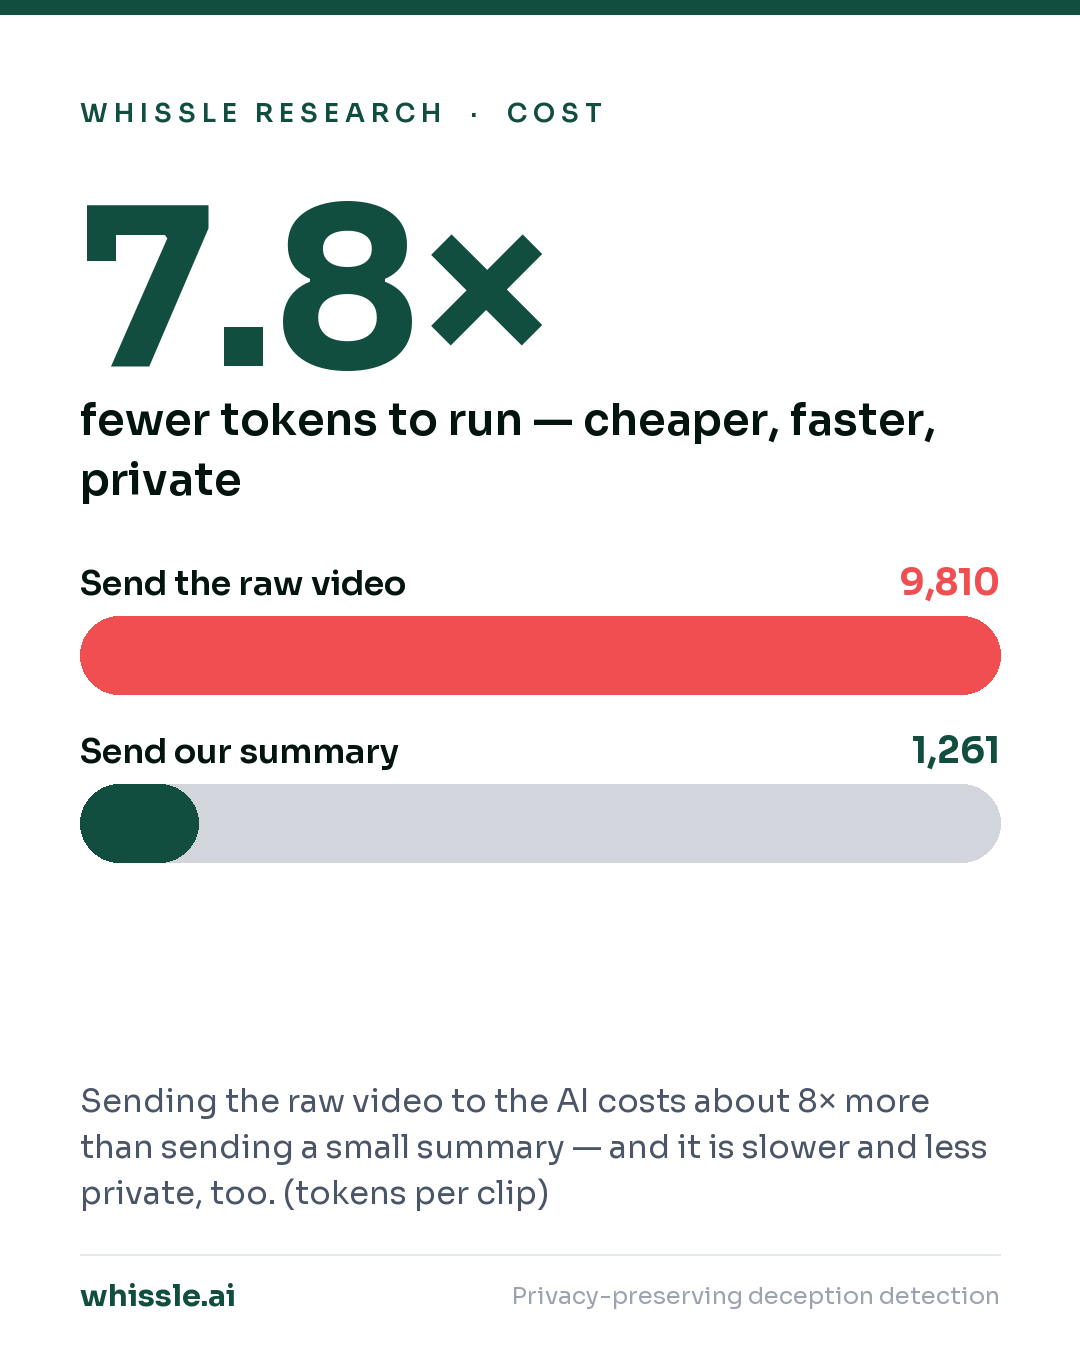
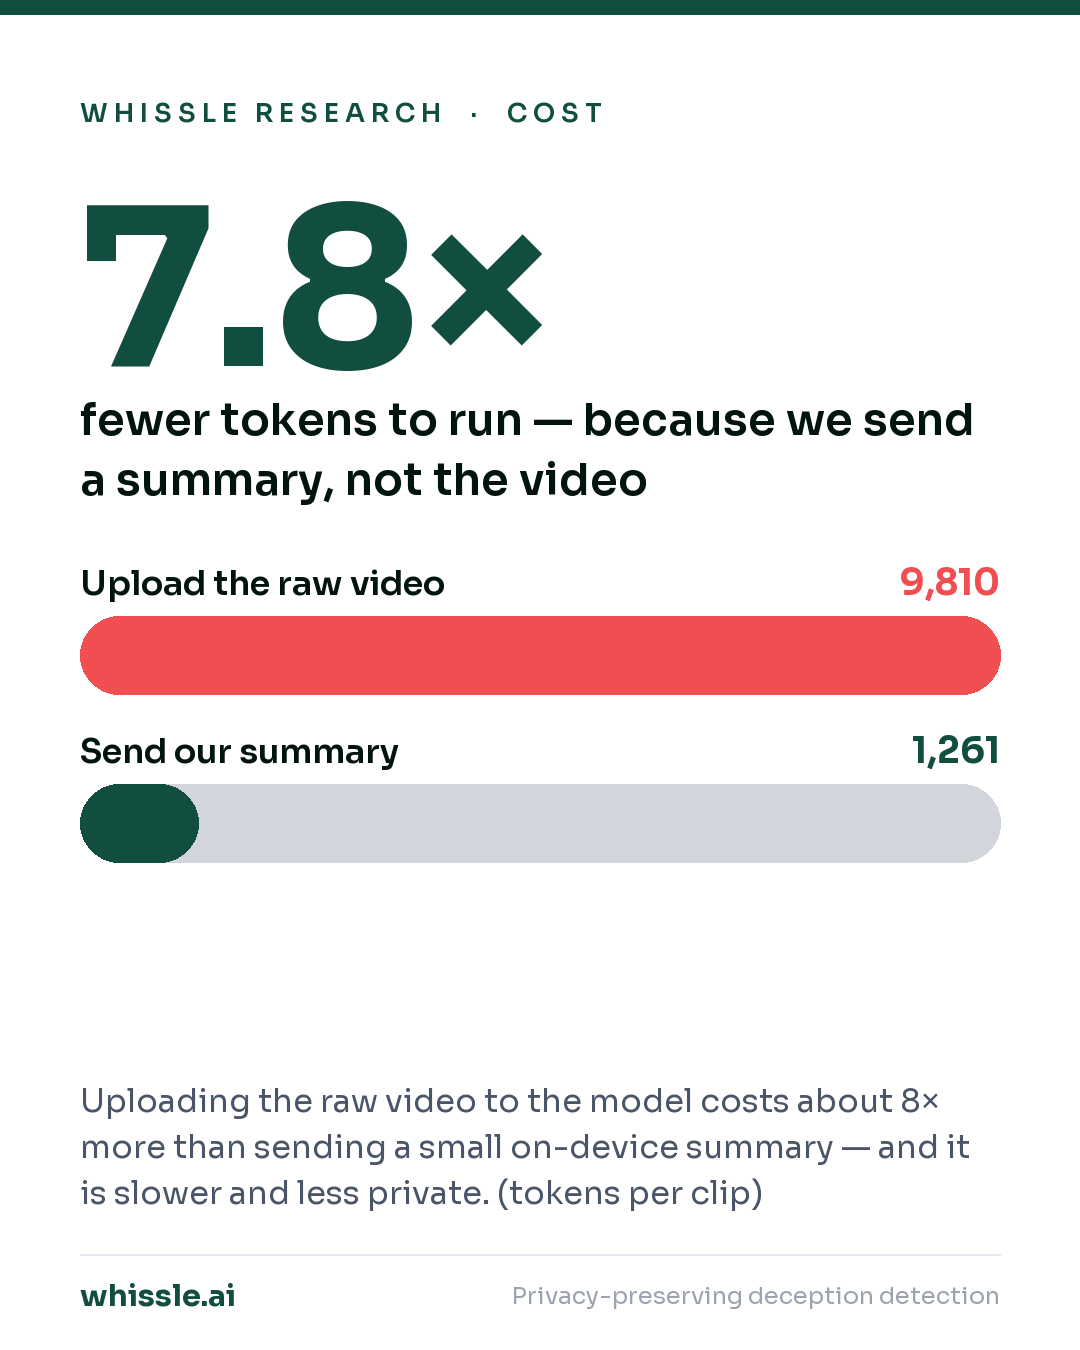
Honest framing: title 'Without Sending the Video'; regenerate LinkedIn cards
Title no longer says 'Without Watching' (the device does analyse the video; only
the cloud never sees it). Regenerated 4 LinkedIn cards with on-device framing + a
speaker-leakage debunk card.

Changed region(s): [[0.0611, 0.8089, 0.9167, 0.9022], [0.0611, 0.28, 0.9167, 0.3733], [0.0611, 0.4044, 0.3972, 0.4667]]

diff --git a/paper/deception_detection.md b/paper/deception_detection.md
@@ -1,4 +1,4 @@
-# Catching Lies Without Watching: Privacy-Preserving Multimodal Deception Detection
+# Catching Lies Without Sending the Video: Privacy-Preserving Multimodal Deception Detection
 
 **Whissle Research Team**
 